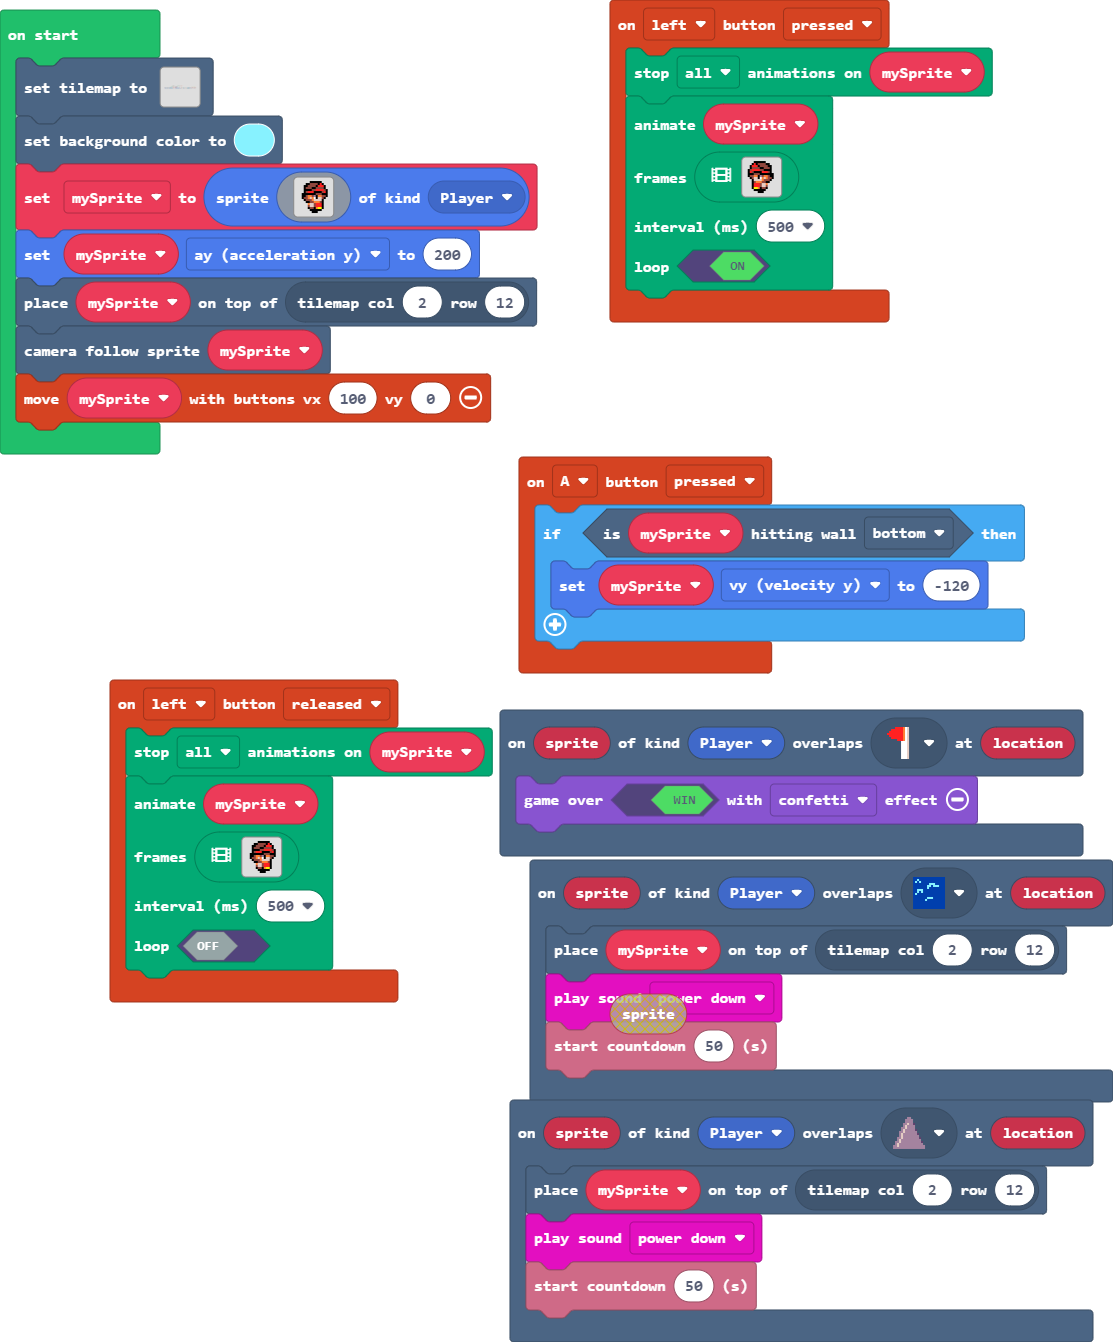
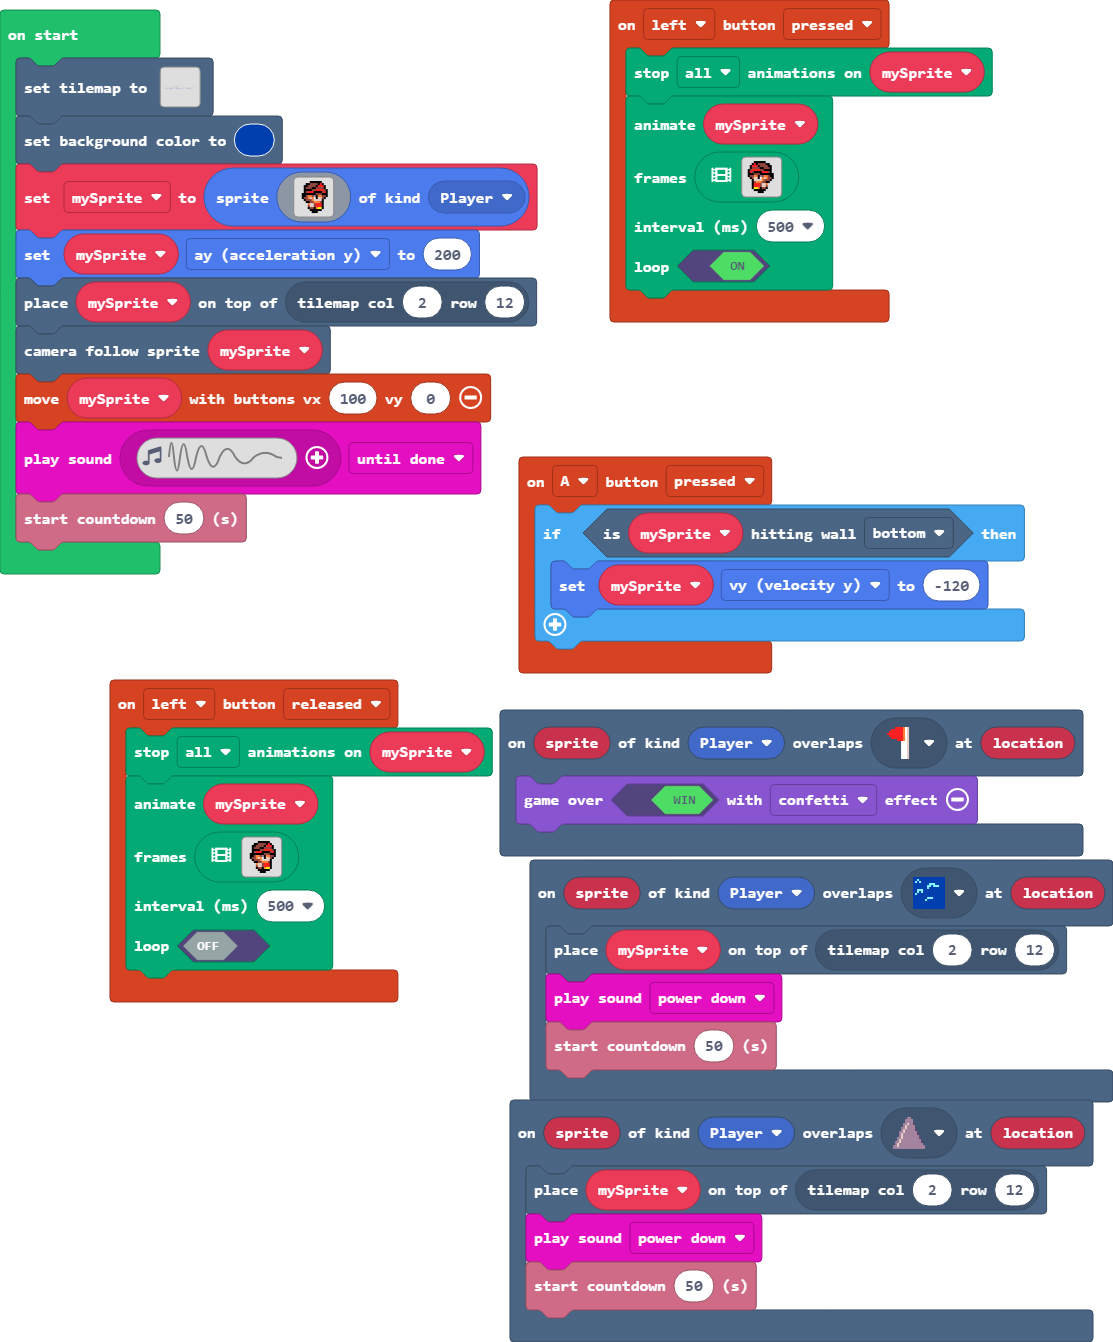
I made the background dark blue

Changed region(s): [[0.0, 0.3055, 0.4582, 0.4277], [0.5499, 0.7332, 0.6415, 0.7943], [0.2138, 0.0917, 0.2444, 0.1222]]

diff --git a/tilemap.g.ts b/tilemap.g.ts
@@ -48,6 +48,25 @@ namespace myTiles {
 2222......222.....2222....................22222222222....................222...2222222222222222222.2222......222.........2222...2222222222222222222222
 2222......222.....2222....................22222222222....................222...22222222222....2222.222222222.............2222...2222222222222222222222
 `, [myTiles.transparency16,myTiles.tile1,myTiles.tile2,myTiles.tile3,sprites.castle.tilePath2,sprites.castle.tilePath5,sprites.builtin.forestTiles0,myTiles.tile4,sprites.dungeon.chestClosed,sprites.dungeon.darkGroundNorthWest0,sprites.dungeon.darkGroundNorth,sprites.dungeon.darkGroundNorthEast0,sprites.dungeon.darkGroundEast,sprites.dungeon.darkGroundSouthEast0,sprites.dungeon.darkGroundSouth,sprites.dungeon.darkGroundSouthWest0,sprites.dungeon.darkGroundWest,sprites.dungeon.darkGroundCenter,myTiles.tile5,myTiles.tile6,myTiles.tile7,sprites.builtin.forestTiles1], TileScale.Sixteen);
+            case "level":
+            case "level2":return tiles.createTilemap(hex`1000100000000000000000000000000000000000000000000000000000000000000000000000000000000000000000000000000000000000000000000000000000000000000000000000000000000000000000000000000000000000000000000000000000000000000000000000000000000000000000000000000000000000000000000000000000000000000000000000000000000000000000000000000000000000000000000000000000000000000000000000000000000000000000000000000000000000000000000000000000000000000000000000000000000000000000000000000000000000000000000000000000000000000000000000000000000000`, img`
+. . . . . . . . . . . . . . . . 
+. . . . . . . . . . . . . . . . 
+. . . . . . . . . . . . . . . . 
+. . . . . . . . . . . . . . . . 
+. . . . . . . . . . . . . . . . 
+. . . . . . . . . . . . . . . . 
+. . . . . . . . . . . . . . . . 
+. . . . . . . . . . . . . . . . 
+. . . . . . . . . . . . . . . . 
+. . . . . . . . . . . . . . . . 
+. . . . . . . . . . . . . . . . 
+. . . . . . . . . . . . . . . . 
+. . . . . . . . . . . . . . . . 
+. . . . . . . . . . . . . . . . 
+. . . . . . . . . . . . . . . . 
+. . . . . . . . . . . . . . . . 
+`, [myTiles.transparency16], TileScale.Sixteen);
         }
         return null;
     })

diff --git a/images.g.ts b/images.g.ts
@@ -3,7 +3,44 @@ namespace myImages {
 
     helpers._registerFactory("image", function(name: string) {
         switch(helpers.stringTrim(name)) {
-
+            case "image1":
+            case "myImage":return img`
+. . . . . . . . . . . . . . . . 
+. . . . . . . . . . . . . . . . 
+. . . . . . . . . . . . . . . . 
+. . . . . . . . . . . . . . . . 
+. . . . . . . . . . . . . . . . 
+. . . . . . . . . . . . . . . . 
+. . . . . . . . . . . . . . . . 
+. . . . . . . . . . . . . . . . 
+. . . . . . . . . . . . . . . . 
+. . . . . . . . . . . . . . . . 
+. . . . . . . . . . . . . . . . 
+. . . . . . . . . . . . . . . . 
+. . . . . . . . . . . . . . . . 
+. . . . . . . . . . . . . . . . 
+. . . . . . . . . . . . . . . . 
+. . . . . . . . . . . . . . . . 
+`;
+            case "image2":
+            case "myImage0":return img`
+. . . . . . . . . . . . . . . . 
+. . . . . . . . . . . . . . . . 
+. . . . . . . . . . . . . . . . 
+. . . . . . . . . . . . . . . . 
+. . . . . . . . . . . . . . . . 
+. . . . . . . . . . . . . . . . 
+. . . . . . . . . . . . . . . . 
+. . . . . . . . . . . . . . . . 
+. . . . . . . . . . . . . . . . 
+. . . . . . . . . . . . . . . . 
+. . . . . . . . . . . . . . . . 
+. . . . . . . . . . . . . . . . 
+. . . . . . . . . . . . . . . . 
+. . . . . . . . . . . . . . . . 
+. . . . . . . . . . . . . . . . 
+. . . . . . . . . . . . . . . . 
+`;
         }
         return null;
     })

diff --git a/main.ts b/main.ts
@@ -70,7 +70,7 @@ controller.left.onEvent(ControllerButtonEvent.Released, function () {
 })
 let mySprite: Sprite = null
 tiles.setTilemap(tilemap`level1`)
-scene.setBackgroundColor(9)
+scene.setBackgroundColor(8)
 mySprite = sprites.create(img`
     . . . . . . f f f f f f . . . . 
     . . . . f f e e e e f 2 f . . . 
